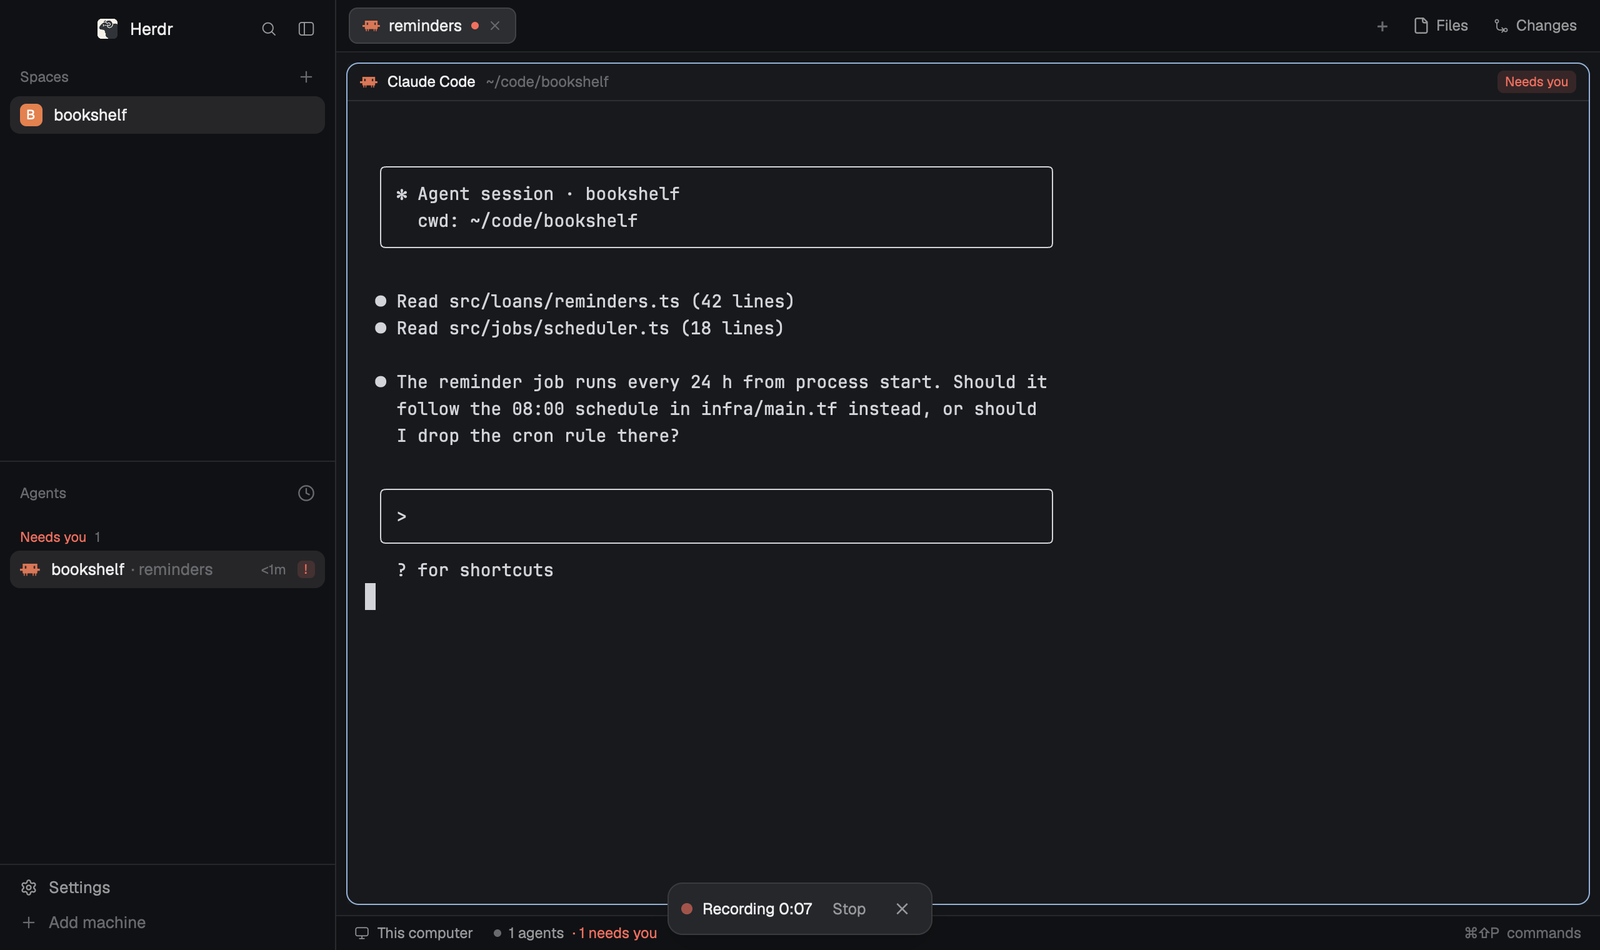
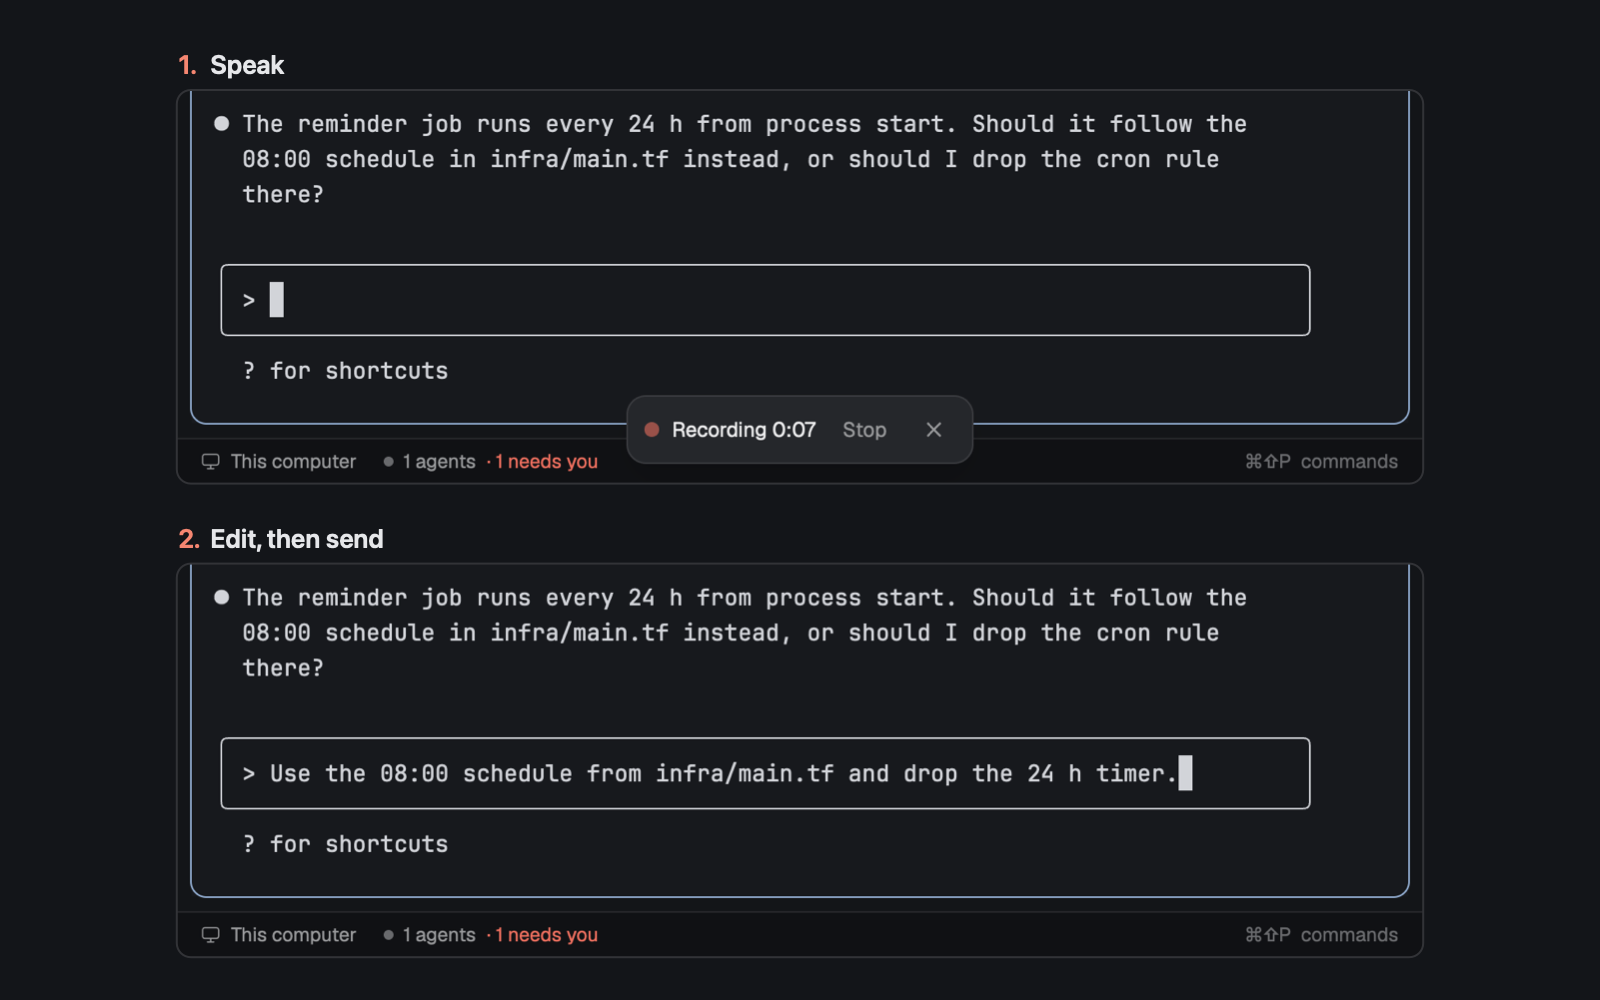
docs: clearer dictate preview

diff --git a/README.md b/README.md
@@ -2,7 +2,7 @@
 
 <h3 align="center">Talk to your agents instead of typing. Press a key, speak, press it again: the text is transcribed on your Mac and lands at your cursor, ready to edit before you send it.</h3>
 
-<p align="center"><img src="preview.png" width="88%" alt="Dictate recording over a terminal: a small float with a red dot, Recording 0:07 and Stop" /></p>
+<p align="center"><img src="preview.png" width="88%" alt="Two steps in Claude Code. 1, Speak: the agent asks a question and a float at the bottom shows Recording 0:07 with Stop. 2, Edit, then send: the dictated answer, Use the 08:00 schedule from infra/main.tf and drop the 24 h timer., sits in the prompt line, not sent yet." /></p>
 
 <p align="center"><sub>✓&nbsp;Free,&nbsp;MIT &nbsp;·&nbsp; ✓&nbsp;Runs&nbsp;locally &nbsp;·&nbsp; ✓&nbsp;herdr-app&nbsp;0.1.14+</sub></p>
 
@@ -37,6 +37,8 @@ transcribes on Apple Silicon, and the model detects the language by itself.
   `maxSeconds`, and cancel or closing Herdr stops both.
 - Missing ffmpeg or parakeet-mlx: a toast (and the chat bar's mic tooltip) says what to install. It never installs
   anything itself.
+
+<p align="center"><img src="docs/screenshots/walkthrough.gif" width="70%" alt="Walkthrough: press ⌘⇧M, the float counts up while recording, shows Transcribing…, then the text appears in the agent's prompt line" /></p>
 
 ## Requirements
 
